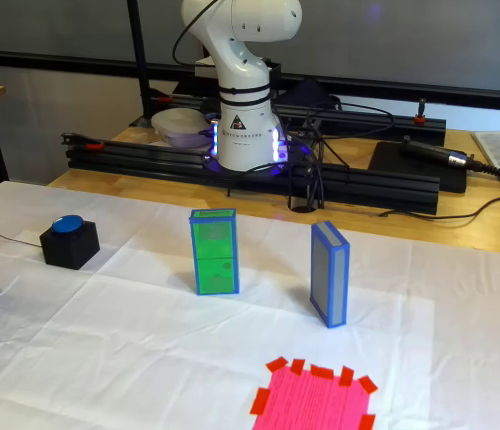
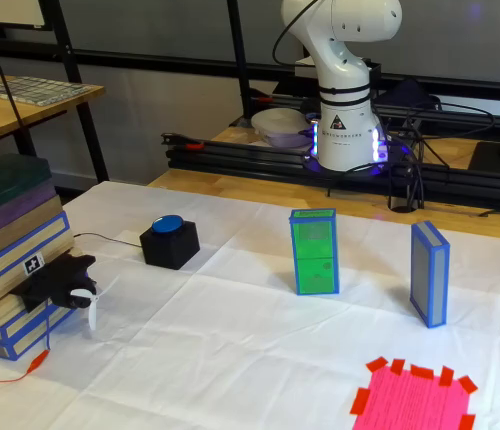
Show the fan in Figure 1's real-robot photos
The front-camera crop now starts left of the fan on the box stack while
keeping the button, both dominoes, and the target patch.

diff --git a/scripts/paper_figures/import_real_robot_frames.py b/scripts/paper_figures/import_real_robot_frames.py
@@ -37,7 +37,7 @@ FPS = 15
 # Figure 1 shows the test task before and after the run, from the front
 # camera in the left half of the side-by-side test video.
 TEASER = [("casc_test.mp4", 0, "start"), ("casc_test.mp4", 2790, "win")]
-TEASER_CROP = (180, 110, 680, 540)
+TEASER_CROP = (80, 110, 580, 540)
 TEASER_FPS = 30
 
 
